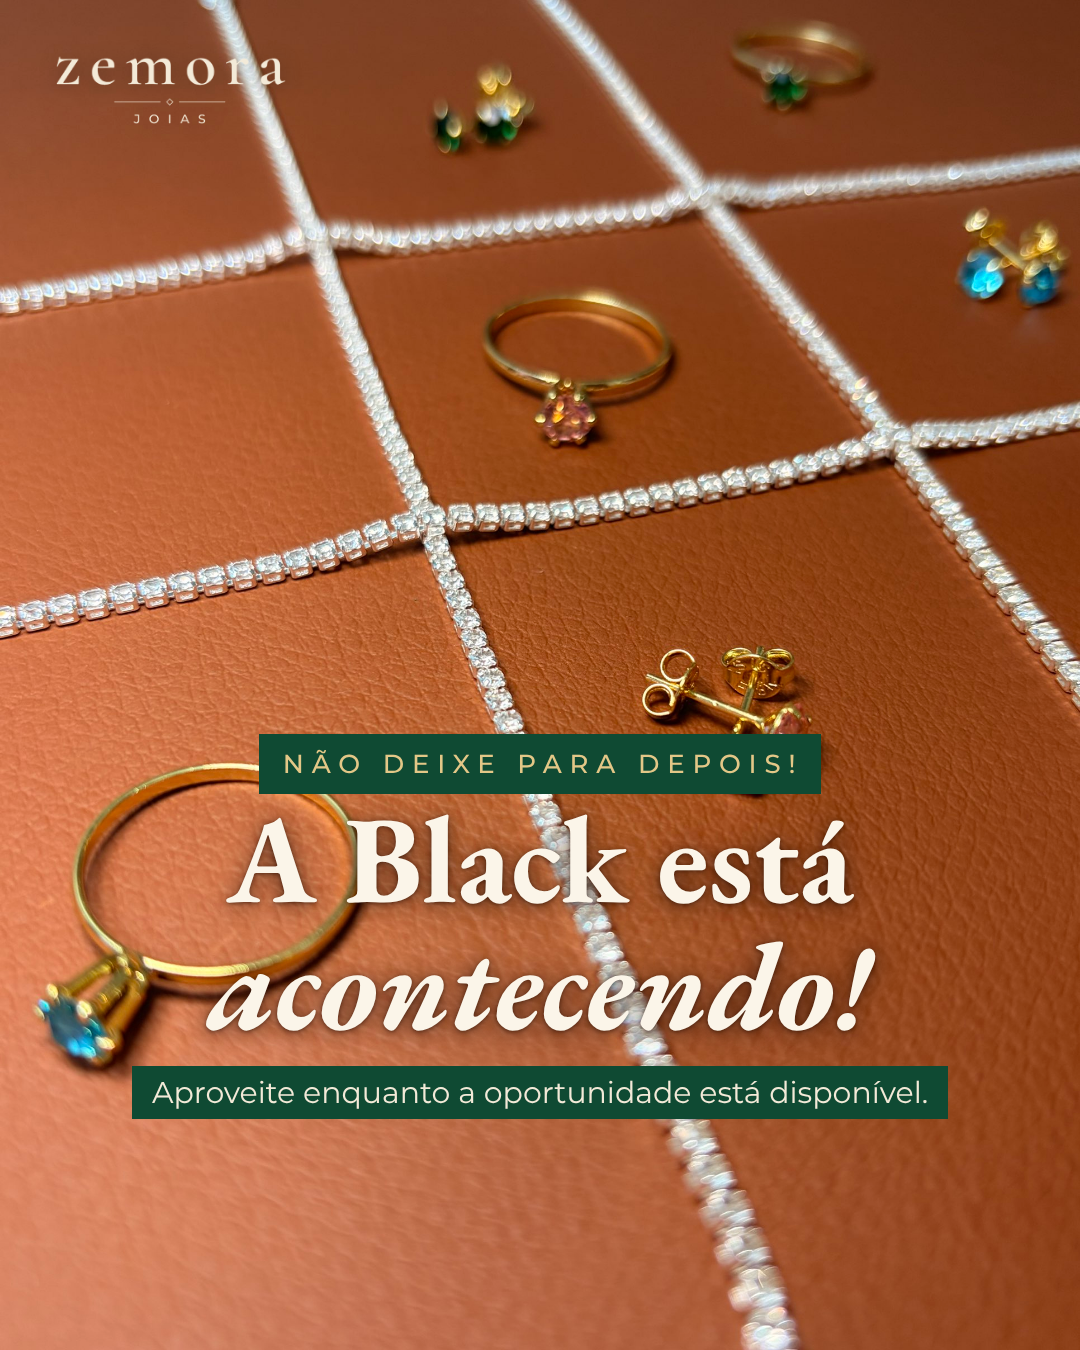
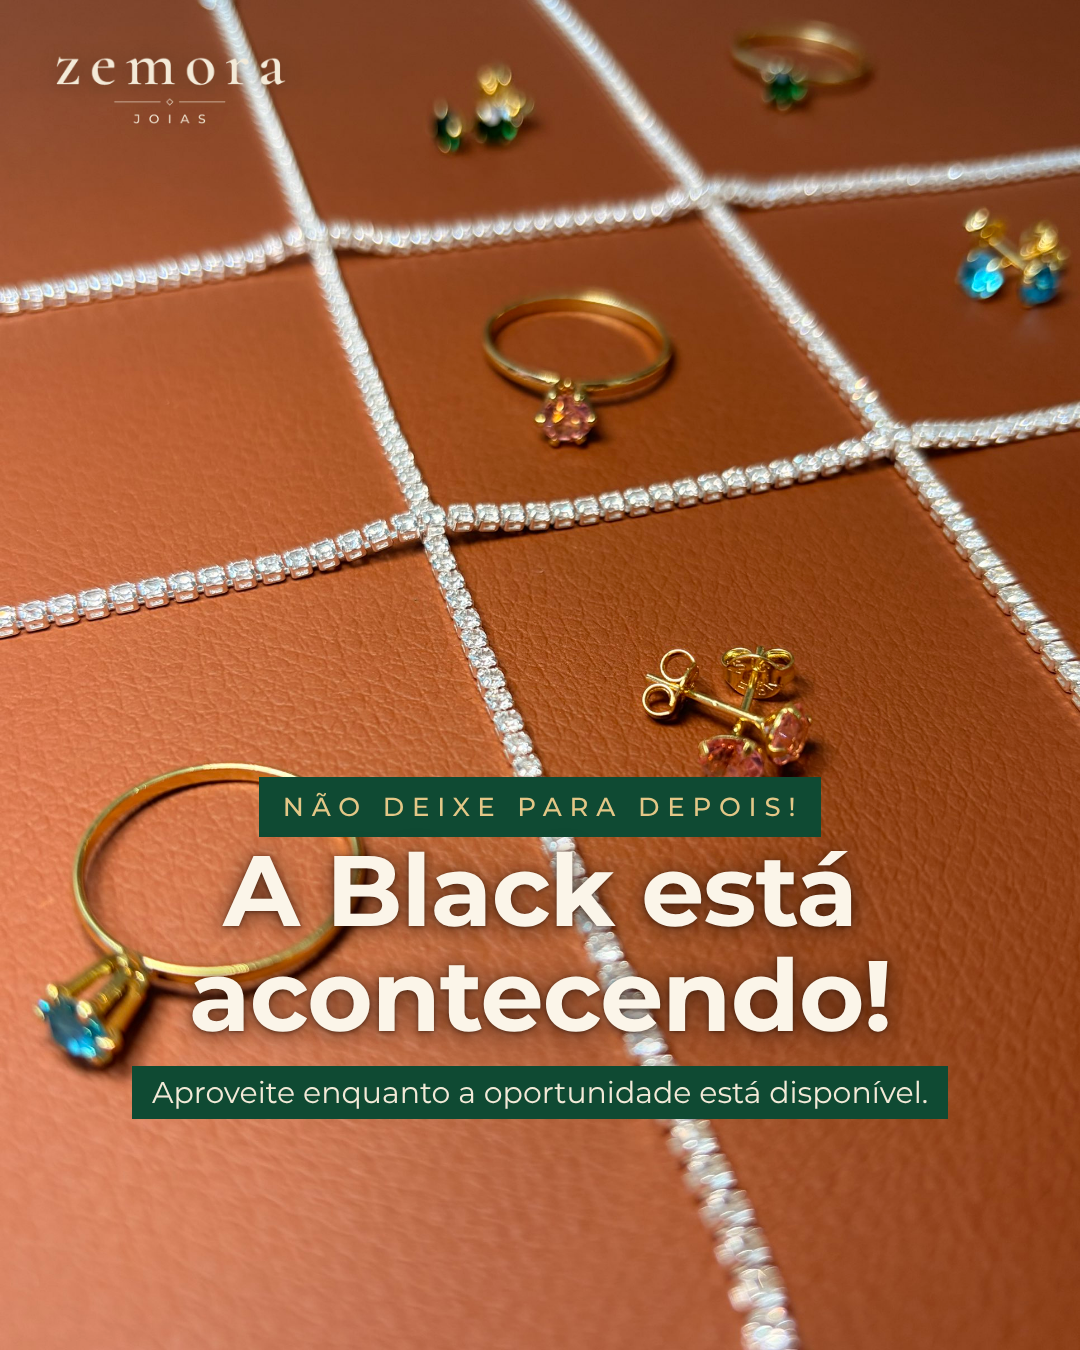
Card 'A Black está acontecendo!': título sem serifa (Montserrat Bold)
Claude-Session: https://claude.ai/code/session_01Ds4o6DPNY229NefAqtX4RB

Changed region(s): [[0.1528, 0.5289, 0.825, 0.7778]]

diff --git a/cards/overlay.html b/cards/overlay.html
@@ -1,5 +1,5 @@
 <!doctype html><html><head><meta charset="utf-8">
-<link href="https://fonts.googleapis.com/css2?family=EB+Garamond:ital,wght@0,400;0,700;1,400;1,700&family=Montserrat:wght@300;400;500&display=swap" rel="stylesheet">
+<link href="https://fonts.googleapis.com/css2?family=EB+Garamond:ital,wght@0,400;0,700;1,400;1,700&family=Montserrat:wght@300;400;500;700&display=swap" rel="stylesheet">
 <style>
 *{margin:0;padding:0;box-sizing:border-box}
 body{width:1080px;height:{{H}}px;overflow:hidden;background:#000}
@@ -11,9 +11,9 @@ body{width:1080px;height:{{H}}px;overflow:hidden;background:#000}
 .content{position:absolute;left:60px;right:60px;bottom:{{BOTTOM}}px;text-align:center;display:flex;flex-direction:column;align-items:center;gap:18px}
 .hl{background:#0f4a33;color:#f3ead8;display:inline;box-decoration-break:clone;-webkit-box-decoration-break:clone}
 .kick .hl{font:500 {{KSIZE}}px/1 Montserrat;letter-spacing:.3em;text-transform:uppercase;color:#e3c787;padding:14px 18px 14px 24px}
-h1{font:700 {{H1SIZE}}px/1.02 'EB Garamond';letter-spacing:-.3px;color:#fbf5e9;text-shadow:0 2px 22px rgba(40,15,5,.7),0 1px 4px rgba(40,15,5,.6)}
+h1{font:700 {{H1SIZE}}px/1.05 Montserrat;letter-spacing:-1px;color:#fbf5e9;text-shadow:0 2px 22px rgba(40,15,5,.7),0 1px 4px rgba(40,15,5,.6)}
 
-h1 em{font-style:italic;color:#fbf5e9}
+h1 em{font-style:normal;color:#fbf5e9}
 p{font:400 {{PSIZE}}px/1.8 Montserrat;white-space:nowrap}
 p .hl{padding:8px 20px}
 </style></head><body><div class="card">

diff --git a/cards/render.js b/cards/render.js
@@ -3,7 +3,7 @@ const {chromium}=require('playwright');const fs=require('fs');
 const cards={
  'bf':{foto:['foto1','foto2'],kick:'',h1:'O brilho que você ama, com <em>oportunidades imperdíveis!</em>',p:'Nossa Black Friday já começou. Aproveite!',
        pos:{feed:{foto1:'55% 26%',foto2:'45% 32%'},stories:{foto1:'55% 50%',foto2:'45% 50%'}}},
- 'bf2':{foto:['foto3'],kick:'Não deixe para depois!',style:'overlay',h1:['A Black está','<em>acontecendo!</em>'],h1size:124,p:'Aproveite enquanto a oportunidade está disponível.',
+ 'bf2':{foto:['foto3'],kick:'Não deixe para depois!',style:'overlay',h1:['A Black está','<em>acontecendo!</em>'],h1size:100,p:'Aproveite enquanto a oportunidade está disponível.',
        pos:{feed:{foto3:'50% 60%'},stories:{foto3:'10% 50%'}}},
 };
 const formats=[['feed','card.html',1350,''],['stories','story.html',1920,'-stories']];
